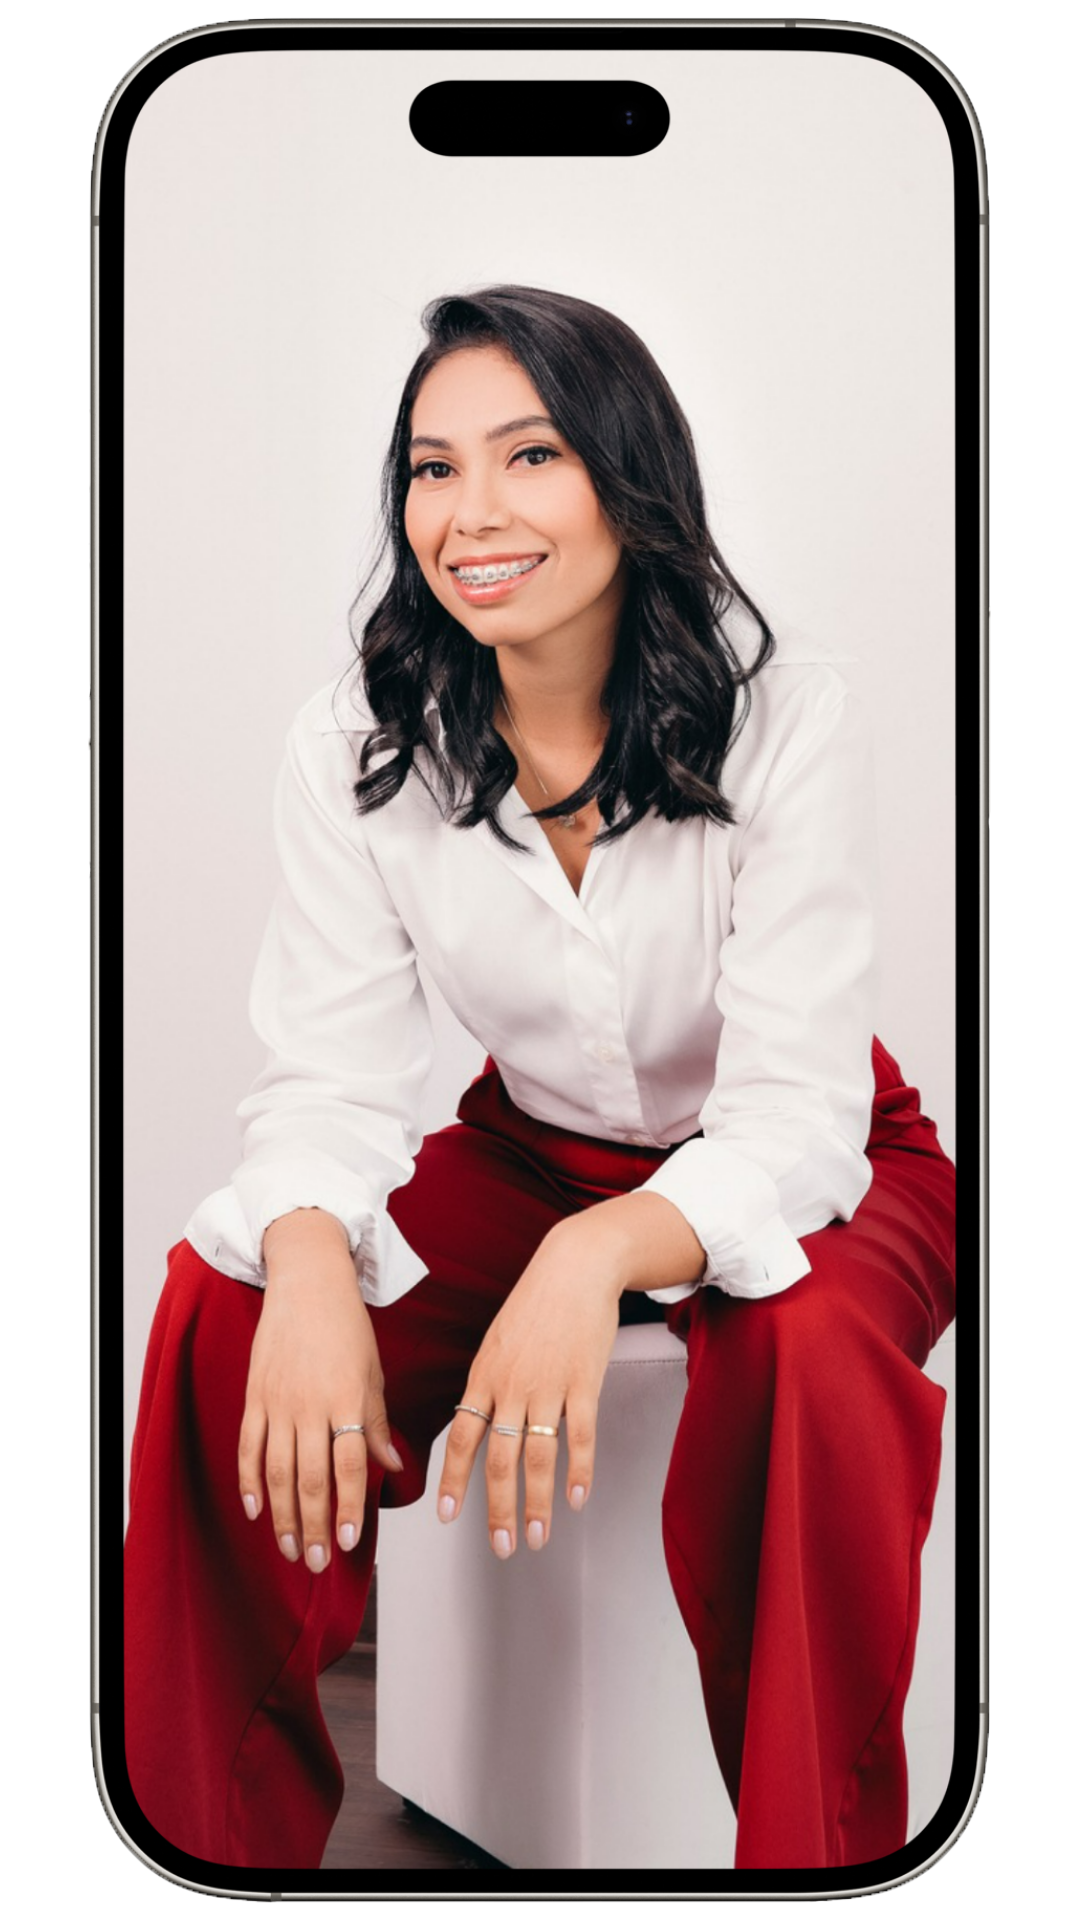
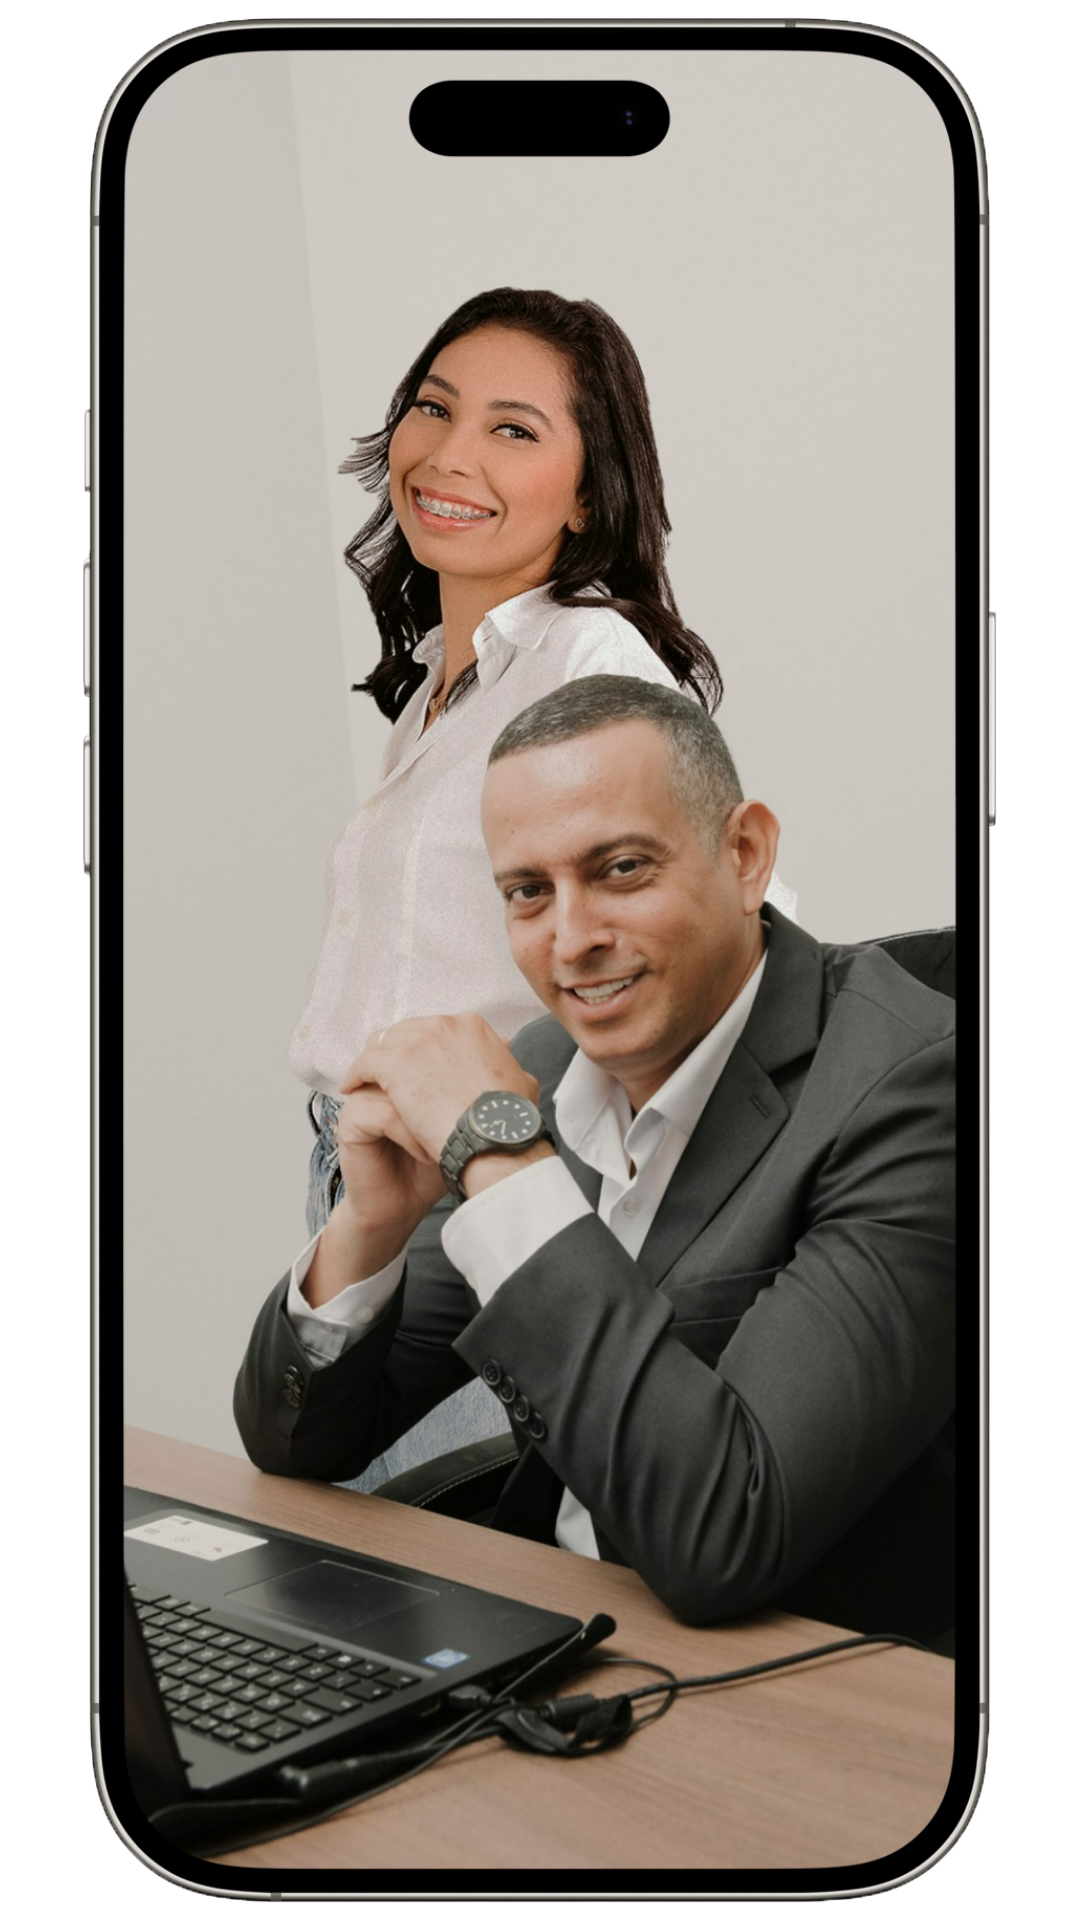
Corrigi alguns elementos no HTML e no CSS
Troquei a fonte do titulo para o & ficar mais bonito, troquei o "n°" do endereço, troquei a cor dos botões das redes sociais, troquei a foto do mockup do celular. Corrigi o tamanho dos ícones nos botões das redes sociais na resolução de smartphone.

diff --git a/index.css b/index.css
@@ -37,6 +37,7 @@ h2{
     position: absolute;
     top: 55%;
     font-size: larger;
+    font-family: 'Arbutus Slab';
 }
 p{
     box-sizing: border-box;
@@ -121,15 +122,7 @@ h3:hover{
     font-size: x-large;
     color: #ffffff;
 }
-/*.oabQuemSou{
-    box-sizing: border-box;
-    position: absolute;
-    top: 24%;
-    margin-top: 1.5%;
-    left: 20.1%;
-    font-size: small;
-    color: white;
-}*/
+
 .paragrafoQuemSou{
     box-sizing: border-box;
     position: absolute;
@@ -389,7 +382,7 @@ footer{
     font-size: x-large;
     top: 25%;
     left: 48%;
-    background-color: #ff0095;
+    background-color: #8a8a8a;
     color: white;
 }
 .imgRedes1{
@@ -420,7 +413,7 @@ footer{
     font-size: x-large;
     top: 25%;
     left: 30%;
-    background-color: rgb(0, 255, 115);
+    background-color: rgb(0, 81, 255);
 }
 .imgRedes2{
     display: flex;
@@ -450,7 +443,7 @@ footer{
     font-size: x-large;
     top: 35%;
     left: 48%;
-    background-color: #ff0095;
+    background-color: #8a8a8a;
     color: white;
 }
 .imgRedes3{
@@ -481,7 +474,7 @@ footer{
     font-size: x-large;
     top: 35%;
     left: 30%;
-    background-color: rgb(0, 255, 115);
+    background-color: rgb(0, 81, 255);
     color: white;
 }
 .imgRedes4{
@@ -994,6 +987,9 @@ footer{
     }
     .redes3{
         top: 55%;
+    }
+    .imgRedes1, .imgRedes2, .imgRedes3, .imgRedes4{
+        width: 6%;
     }
     .fotoCelular{
         display: none;

diff --git a/index.html b/index.html
@@ -76,7 +76,7 @@
             <iframe class="mapaEndereco hidden4" src="https://www.google.com/maps/embed?pb=!1m18!1m12!1m3!1d473.0965141576008!2d-50.44643941616866!3d-18.448653277073007!2m3!1f0!2f0!3f0!3m2!1i1024!2i768!4f13.1!3m3!1m2!1s0x949f0917a66eed1f%3A0x20704267fb97ed7d!2sAgro%20Barroso!5e0!3m2!1spt-BR!2sbr!4v1737556989229!5m2!1spt-BR!2sbr" width="600" height="450" style="border:0;" allowfullscreen="" loading="lazy" referrerpolicy="no-referrer-when-downgrade"></iframe>
             <h2 class="subtituloEndereco hidden2">Endereço do escritório:</h2>
             <p class="paragrafoEndereco hidden3">Av. Garibaldi Teixeira</br></br>
-            N° 191</br></br>
+            n° 191</br></br>
             Centro</br></br>
             Quirinópolis-GO</br></br>
             CEP 75.860-058
